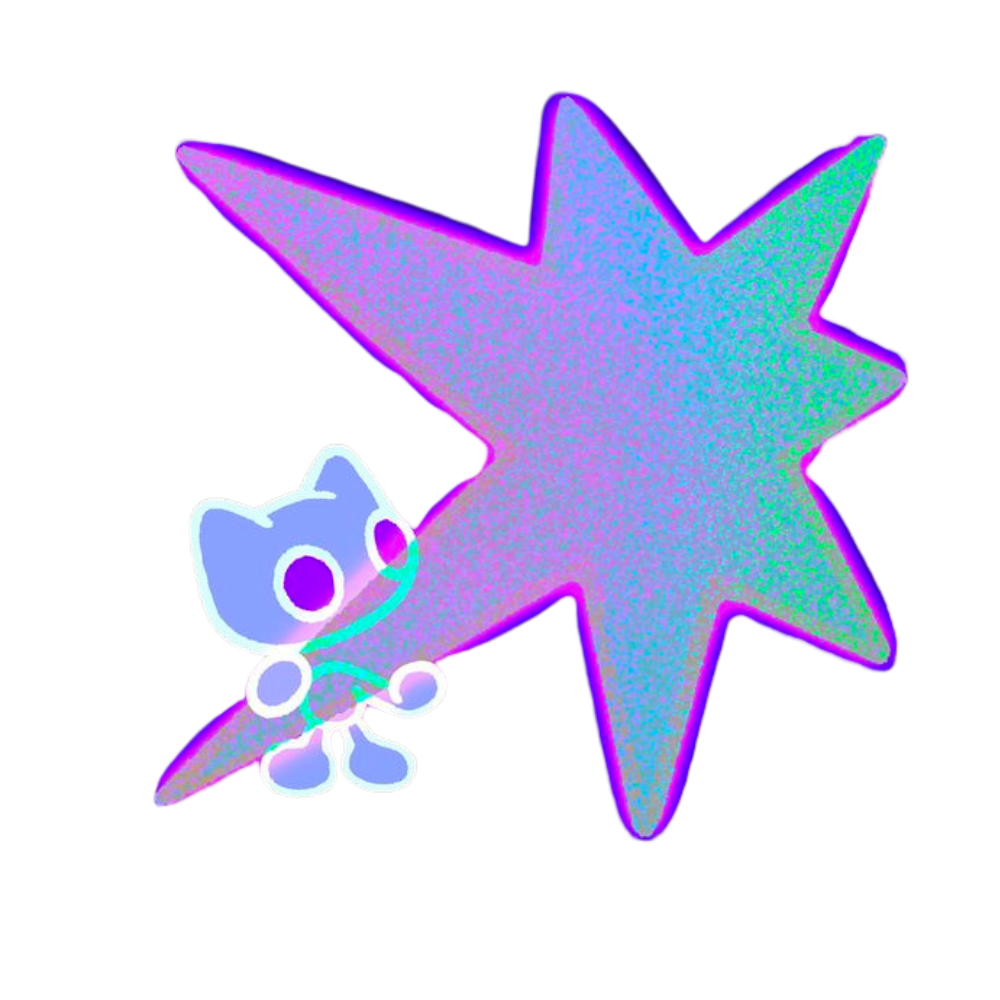
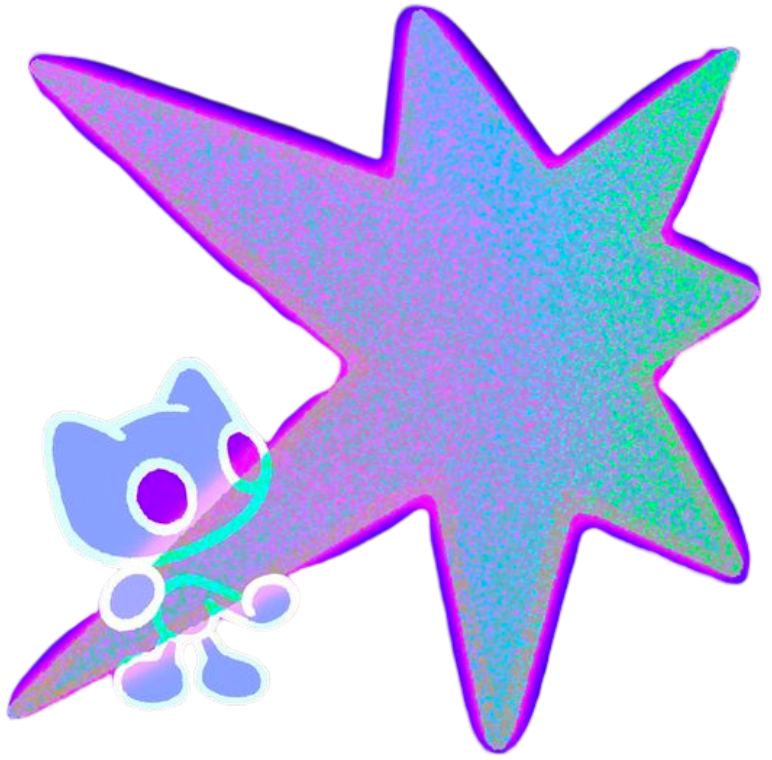
Create Listening

diff --git a/styles.css b/styles.css
@@ -18,6 +18,8 @@ section {
   font-family: sans-serif;
 }
 
+/* Hero Section Styles */
+
 #hero {
   background-color: #faf7f7;
   position: relative;
@@ -94,6 +96,8 @@ h3 {
     transition: transform 0.3s;
 }
 
+/* About Section Styles */
+
 #about {
     background-color: #85d7e6;
     display: flex;
@@ -132,6 +136,15 @@ h3 {
 .indent-3 { display: block; padding-left: 6em; }
 .indent-4 { display: block; padding-left: 8em; }
 
+#about-header {
+    display: flex;
+    flex-direction: column;
+    justify-content: center;
+    align-items: center;
+    width: 50%;
+    padding: 2rem;
+}
+
 #about-header h2 {
     font-family: 'Bvllet', sans-serif;
     color: #ff751f;
@@ -141,10 +154,103 @@ h3 {
     margin: 0;
 }
 
+/* Listening Section Styles */
+
 #listening {
     background-color: #1b1b1b;
+    display: flex;
+    flex-direction: column;
+    position: relative;
 }
+
+#starburst {
+    position: absolute;
+    top: 5%;
+    left: 2%;
+    z-index: 0;
+    width: 15%;
+}
+
+#marvin {
+    position: absolute;
+    top: 5%;
+    right: 5%;
+    z-index: 0;
+    width: 15%;
+}
+
+#marcy {
+    position: absolute;
+    bottom: 0;
+    right: 2%;
+    z-index: 0;
+    width: 25%;
+}
+
+#listening-background {
+    position: absolute;
+    top: 0;
+    left: 0;
+    width: 100%;
+    height: 100%;
+    z-index: 0;
+    display: flex;
+    justify-content: space-around;
+    align-items: center;
+}
+
+.album-row {
+    display: flex;
+    flex-direction: row;
+    justify-content: center;
+    align-items: center;
+    width: 60%;
+}
+
+.album-row img {
+    width: 17vw;
+    height: auto;
+    margin: 1rem;
+    transition: transform 0.3s;
+    border-radius: 5%;
+    cursor: pointer;
+}
+
+#row-1 {
+    margin-top: 5rem;
+    margin-left: 20%;
+}
+
+#row-2 {
+    margin-top: 0;
+    margin-left: 5%;
+}
+
+#listening h2 {
+    font-family: 'Bvllet', sans-serif;
+    color: #ff751f;
+    font-weight: lighter;
+    font-size: 12rem;
+    text-align: left;
+    margin: 0;
+    padding: 0;
+    line-height: 0.9;
+    position: absolute;
+    bottom: -0.5rem;
+    left: 1rem;
+}
+
+/* Life Section Styles */
 
 #life {
     background-color: #ff99cc;
+    display: flex;
+    flex-direction: column;
+    align-items: center;
+}
+
+#life img {
+    height: 150px;
+    width: auto;
+    margin: 0;
 }

diff --git a/index.html b/index.html
@@ -6,7 +6,7 @@
     <link rel="stylesheet" href="styles.css">
     <script src="scripts.js"></script>
     <link rel="icon" href="/public/favicon.png" type="image/png">
-    <title>Kaeden B</title>
+    <title>Kaeden</title>
 </head>
 <body>
     <main>
@@ -58,11 +58,37 @@
         </section>
 
         <section id="listening">
+
+            <div id="listening-background">
+                <img src="/public/starburst.png" alt="starburst" id="starburst">
+                <img src="/public/marvin.png" alt="marvin" id="marvin">
+                <img src="/public/marcy.png" alt="marcy" id="marcy">
+            </div>
+
+            <div class="album-row" id="row-1">
+                <img src="/public/slow-rush.jpg" alt="The Slow Rush Album Cover">
+                <img src="/public/choose-your-weapon.jpg" alt="Choose Your Weapon Album Cover">
+                <img src="/public/drive-slow.jpg" alt="Drive Slow Album Cover">
+            </div>
+
+            <div class="album-row" id="row-2">
+                <img src="/public/in-rainbows.jpg" alt="In Rainbows Album Cover">
+                <img src="/public/starjunk95.jpg" alt="Starjunk95 Album Cover">
+                <img src="/public/no-hands.jpg" alt="No Hands Album Cover">
+            </div>
+
+            <h2>Listening...</h2>
             
         </section>
 
         <section id="life">
-
+            <h2>LIFE OF KAEDEN✨</h2>
+            <img src="/public/kaeden.png" alt="Life of Kaeden Image" width="80%">
+            <img src="/public/music.png" alt="Life of Kaeden Image" width="80%">
+            <img src="/public/volleyball.png" alt="Life of Kaeden Image" width="80%">
+            <img src="/public/julia.png" alt="Life of Kaeden Image" width="80%">
+            <img src="/public/today.png" alt="Life of Kaeden Image" width="80%">
+            <img src="/public/life.png" alt="Life of Kaeden Image" width="80%">
         </section>
     </main>
 </body>
